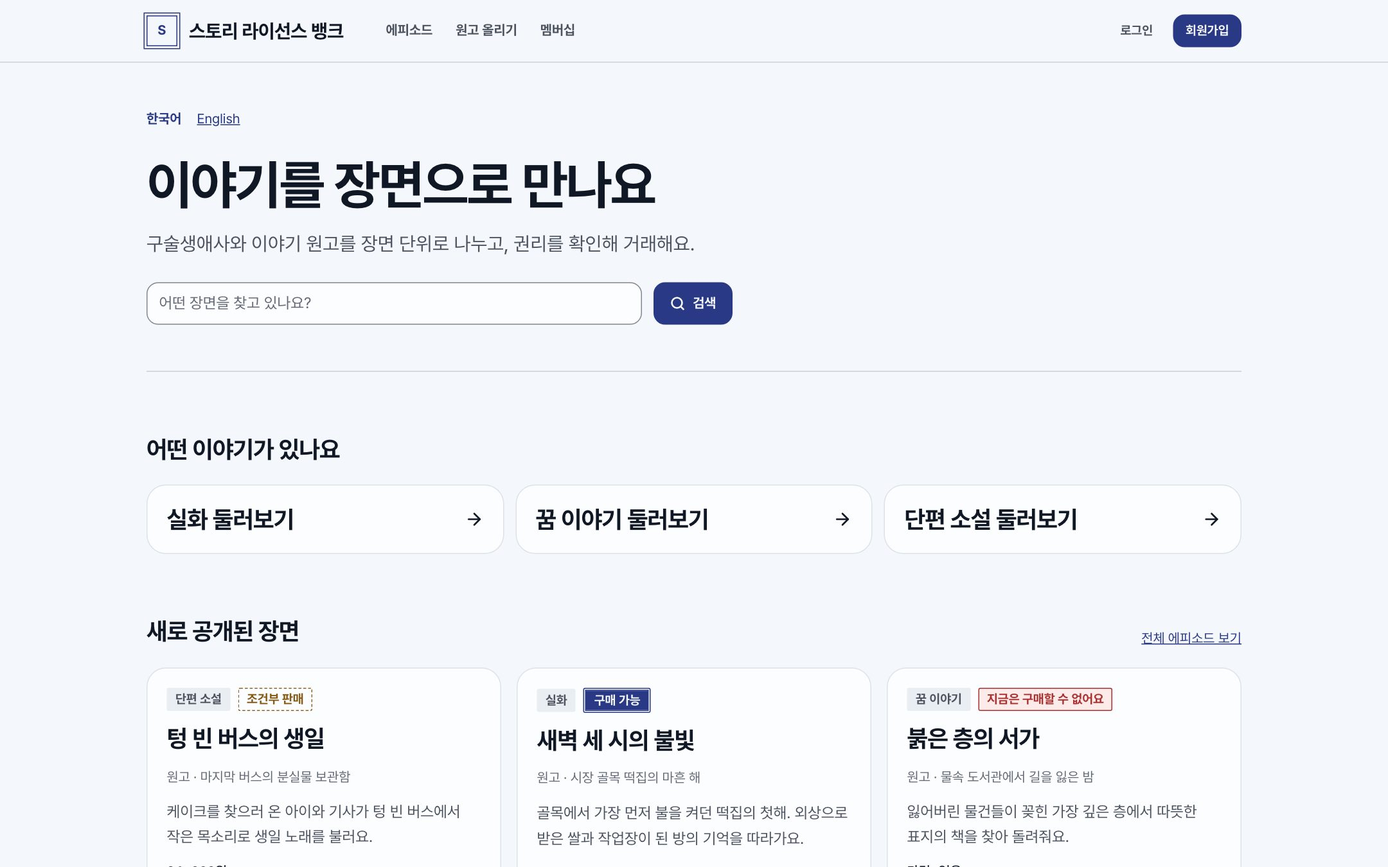
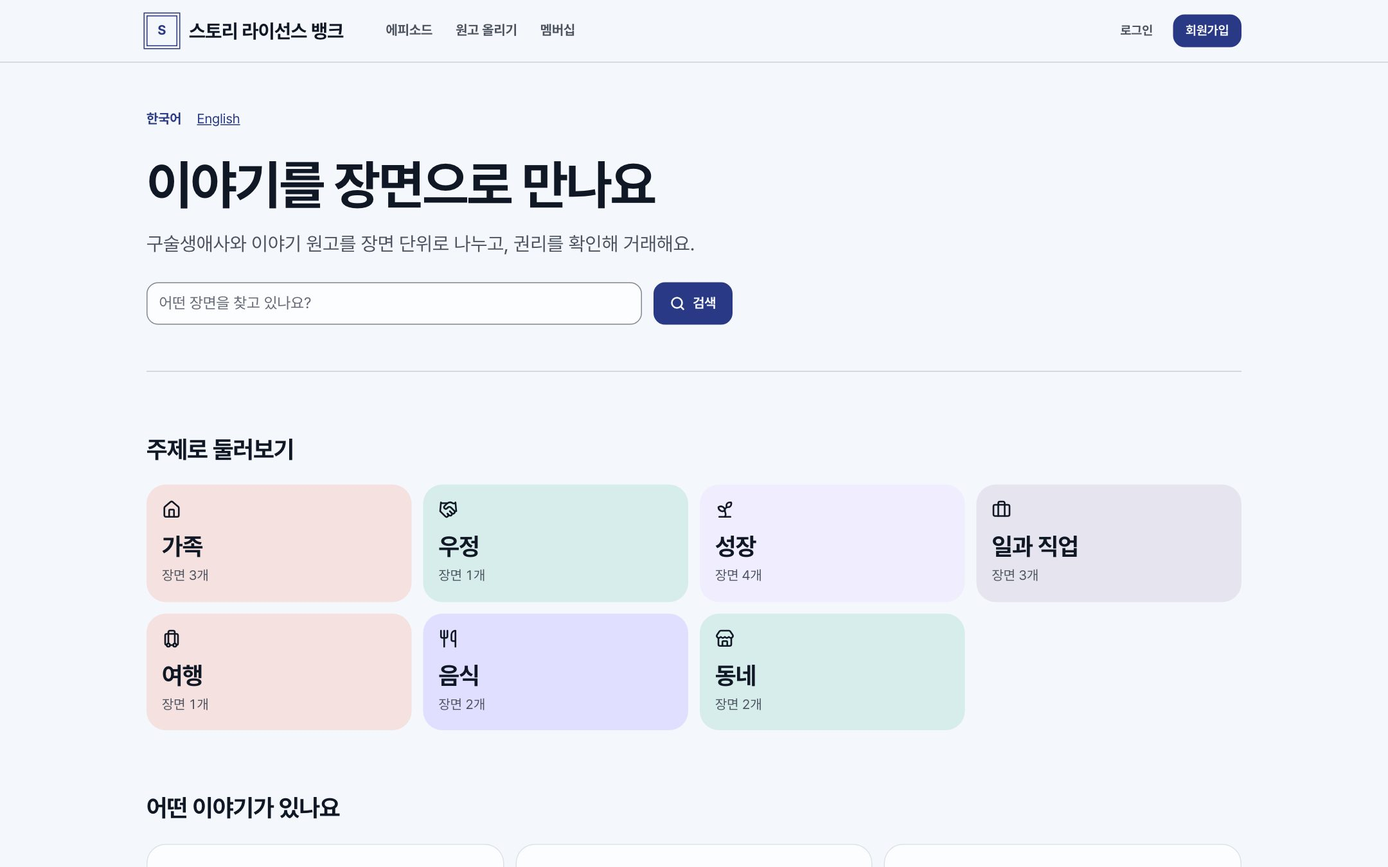
분류·운영 기록(B4a·B6a) 구현 반영: 기능 정의·정책서·화면 시안 갱신
- 기능 정의: 태그·키워드·주제·태그 조건 탐색·감사 로그·내보내기 상태(구현 27·일부 10·예정 8)
- 정책서: 분류어 규칙(EP-8), 분류와 태그 표, 감사 로그 조회(OP-6)·내보내기(OP-7)
- 서비스 구조: 관리자 메뉴 4개 그룹(검색 데이터 추가), 일정 표
- 화면: A-19 태그·키워드, A-25 감사 로그·내보내기 캡처, 첫 화면·탐색·에피소드 상세·대시보드·에피소드 편집 캡처 교체

diff --git a/assets/data.js b/assets/data.js
@@ -12,21 +12,21 @@ SB.statusLabels = {
 SB.screens = [
   // 공개 화면
   { id: 'P-01', name: '첫 화면(랜딩)', route: '/', area: 'public', status: 'built', bundle: 'B3',
-    purpose: '서비스를 소개하고 바로 검색을 시작하게 합니다. 새로 공개된 에피소드를 먼저 보여 줍니다.',
-    points: ['검색창에서 바로 탐색으로 이동', '이야기 종류 3가지: 실화·꿈 이야기·단편 소설', '새로 공개된 에피소드 카드와 전체 보기', '같은 구조의 영어 화면(/en)'],
-    features: ['F4-1'], desktop: 'P01-home-desktop.jpg', mobile: 'P01-home-mobile.jpg', full: 'P01-home-desktop-full.jpg' },
+    purpose: '서비스를 소개하고 바로 검색을 시작하게 합니다. 주제 타일과 새로 공개된 에피소드를 먼저 보여 줍니다.',
+    points: ['검색창에서 바로 탐색으로 이동', '주제 타일: 공개 에피소드가 있는 주제만, 누르면 그 주제의 탐색', '이야기 종류 3가지: 실화·꿈 이야기·단편 소설', '새로 공개된 에피소드 카드와 전체 보기', '같은 구조의 영어 화면(/en)'],
+    features: ['F4-1', 'F3-4'], desktop: 'P01-home-desktop.jpg', mobile: 'P01-home-mobile.jpg', full: 'P01-home-desktop-full.jpg' },
   { id: 'P-02', name: '에피소드 탐색', route: '/search', area: 'public', status: 'built', bundle: 'B3',
     purpose: '검색어와 조건으로 공개된 에피소드를 찾습니다. 승인된 요약과 판매 상태만 보입니다.',
-    points: ['검색어·이야기 종류·판매 상태 조건', '에피소드 카드: 이야기 종류, 판매 상태 배지, 원고, 요약, 가격', '"더 보기"로 20개씩 더 불러오기', '결과가 없을 때 안내와 조건 초기화'],
-    features: ['F4-1'], desktop: 'P02-search-desktop.jpg', mobile: 'P02-search-mobile.jpg' },
+    points: ['검색어: 제목·요약·원고 제목에 태그·동의어·장면 키워드까지', '조건: 주제, 시간·장소·감정 태그, 이야기 종류, 활용 유형, 판매 상태', '에피소드 카드: 대표 키워드(#), 주제·감정 태그, 판매 상태, 가격', '"더 보기"로 20개씩 더 불러오기'],
+    features: ['F4-1', 'F3-4'], desktop: 'P02-search-desktop.jpg', mobile: 'P02-search-mobile.jpg' },
   { id: 'P-03', name: 'AI 검색', route: '/chat', area: 'public', status: 'wire', bundle: '결정 대기(U7)',
     purpose: '승인된 요약만 근거로 답하는 질의 화면입니다. AI 검색 화면 유지 여부(U7)를 정한 뒤 구현합니다.',
     points: ['답변마다 근거가 된 에피소드 표시', '탐색 화면과 같은 검색 API 사용', '승인 전 원문은 답변에 쓰지 않음'],
     features: ['F4-5'], desktop: 'W-P03-chat-desktop.jpg' },
   { id: 'P-04', name: '에피소드 상세', route: '/episodes/{id}', area: 'public', status: 'built', bundle: 'B3',
     purpose: '승인된 요약과 공개 발췌를 보여 주고, 회원 등급에 따라 전문과 구매 패널을 보여 줍니다.',
-    points: ['상단 분류 줄: 이야기 종류와 회차 번호', '공개 발췌는 원문 그대로 인용', '전문 잠금: 방문자는 로그인, 무료는 멤버십 안내, 유료는 전문', '구매 패널: 가격, 판매 상태, 이용 범위, 담기', '같은 원고의 다른 회차'],
-    features: ['F1-4', 'F6-2'], desktop: 'P04-episode-guest-desktop.jpg', mobile: 'P04-episode-guest-mobile.jpg', full: 'P04-episode-paid-desktop-full.jpg' },
+    points: ['상단 분류 줄: 이야기 종류와 회차 번호', '분류: 대표 키워드, 축별 태그(누르면 그 조건의 탐색), 허용 용도', '공개 발췌는 원문 그대로 인용', '전문 잠금: 방문자는 로그인, 무료는 멤버십 안내, 유료는 전문', '구매 패널: 가격, 판매 상태, 이용 범위, 담기'],
+    features: ['F1-4', 'F6-2', 'F3-1'], desktop: 'P04-episode-guest-desktop.jpg', mobile: 'P04-episode-guest-mobile.jpg', full: 'P04-episode-paid-desktop-full.jpg' },
   { id: 'P-05', name: '원고 상세·회차 선택', route: '/manuscripts/{id}', area: 'public', status: 'built', bundle: 'B3',
     purpose: '원고 소개와 회차 목록을 보여 주고, 살 수 있는 회차를 골라 한 번에 담게 합니다.',
     points: ['회차마다 요약, 판매 상태 배지, 가격', '판매 가능한 회차만 선택, 선택 합계 표시', '한 번에 50개까지 담기, 초과 시 안내 문구 표시', '이미 구매한 회차·결제 확인 대기·장바구니 상태 표시'],
@@ -85,8 +85,8 @@ SB.screens = [
     points: ['관리자가 아닌 계정이 관리자 URL에 접근하면 404', '관리자 인증 강화는 정식 공개 전 조건'], features: ['F1-4'], desktop: 'P09-login-desktop.jpg' },
   { id: 'A-02', name: '운영 대시보드', route: '/admin', area: 'admin', status: 'built', bundle: 'B3',
     purpose: '처리할 일과 운영 지표를 한 화면에 모읍니다. 항목마다 "열기"를 누르면 해당 목록으로 이동합니다.',
-    points: ['회원 업로드 검수·승인 대기 버전·결제 확인 대기·유료 전환 신청', '공개 검수 대기·판매 증빙 없는 원고·기한 30일 안 동의서·파기할 동의서', '결제 완료 매출', 'Storage 사용량과 한도'],
-    features: ['F1-6', 'F6-8'], desktop: 'A02-dashboard-desktop.jpg', mobile: 'A02-dashboard-mobile.jpg' },
+    points: ['회원 업로드 검수·승인 대기 버전·결제 확인 대기·유료 전환 신청', '공개 검수 대기·판매 증빙 없는 원고·기한 30일 안 동의서·파기할 동의서', '결제 완료 매출, Storage 사용량과 한도', '최근 감사 로그 5건과 전체 보기'],
+    features: ['F1-6', 'F6-8', 'F9-1'], desktop: 'A02-dashboard-desktop.jpg', mobile: 'A02-dashboard-mobile.jpg' },
   { id: 'A-03', name: '회원 관리', route: '/admin/members', area: 'admin', status: 'built', bundle: 'B2',
     purpose: '회원을 찾고 등급과 상태, 전환 신청을 확인합니다.',
     points: ['이메일·이름 검색, 등급·상태 조건', '전환 신청 대기 표시', '회원 정보를 열면 열람 기록이 남음'],
@@ -120,9 +120,9 @@ SB.screens = [
     points: ['검수 상태·승인 대기 버전·출처 조건', '현재 버전, 문단 범위, 상품 상태, 가격', '대시보드의 "승인 대기 버전"에서 바로 진입'],
     features: ['F2-6'], desktop: 'A12-episodes-desktop.jpg', mobile: 'A12-episodes-mobile.jpg' },
   { id: 'A-13', name: '에피소드 편집', route: '/admin/episodes/{id}', area: 'admin', status: 'built', bundle: 'B3',
-    purpose: '버전을 만들고 승인하거나 반려합니다. 공개 검수 3단계를 정하고, 필요하면 게시를 중단합니다. 가격과 판매 설정도 여기서 바꿉니다.',
-    points: ['버전 이력: 작성자·결정자·메모', '공개 검수: 원문 일치 → 민감정보 → 권리자 공개 승인, 결정 이력', '새 버전(범위 조정·수정), 승인·반려, 게시 중단·재개, 제외', '가격·판매 설정(저장 즉시 공개 목록 반영)'],
-    features: ['F2-6', 'F2-7', 'F5-5', 'F6-3'], strips: 'A13-episode-strips.jpg' },
+    purpose: '버전을 만들고 승인하거나 반려합니다. 공개 검수 3단계를 정하고, 태그와 장면 키워드를 붙이고, 필요하면 게시를 중단합니다. 가격과 판매 설정도 여기서 바꿉니다.',
+    points: ['버전 이력: 작성자·결정자·메모', '공개 검수: 원문 일치 → 민감정보 → 권리자 공개 승인, 결정 이력', '태그·키워드: 축마다 태그(없는 이름은 새로 만듦), 장면 키워드 1~5개와 대표, 대기 버전이 있으면 공개 중인 버전도 고를 수 있음', '새 버전(범위 조정·수정), 승인·반려, 게시 중단·재개, 제외', '가격·판매 설정(저장 즉시 공개 목록 반영)'],
+    features: ['F2-6', 'F2-7', 'F5-5', 'F6-3', 'F3-1', 'F3-2'], strips: 'A13-episode-strips.jpg' },
   { id: 'A-14', name: '원문 대조', route: '/admin/manuscripts/{id}', area: 'admin', status: 'partial', bundle: 'B3 · B4',
     purpose: '번호 붙은 문단을 200개씩 넘겨 보며 범위를 정합니다. 분할·병합 편집은 AI 분할과 함께 구현합니다.',
     points: ['구현: 200문단 단위 보기, 장·절 제목, 쪽 번호, 열람 기록', '예정: 원문 근거 대조, 분할·병합(와이어프레임)'],
@@ -139,8 +139,10 @@ SB.screens = [
     purpose: '권리자별로 원고, 동의서, 간이 계약과 챙길 일을 모아 봅니다. 연락처는 누를 때만 보이고 열람 기록이 남습니다.',
     points: ['이름 검색, 원고·확인 동의서·발급 계약 수', '챙길 일: 판매 증빙 없음, 기한 30일 안, 파기할 동의서', '상세: 연락처 보기·고치기, 원고·동의서·계약 목록'],
     features: ['F5-2', 'F5-4', 'F5-7'], desktop: 'A18-rights-holders-desktop.jpg', mobile: 'A18-rights-holders-mobile.jpg', extra: [{ label: '권리자 상세', desktop: 'A18-rights-holder-desktop.jpg' }] },
-  { id: 'A-19', name: '키워드·메타데이터', route: '/admin/keywords', area: 'admin', status: 'wire', bundle: 'B4',
-    purpose: '표준 태그와 동의어, 사용 현황을 관리합니다.', points: ['서사 태그 축과 값', '동의어와 사용 현황'], features: ['F3-1', 'F3-2'], desktop: 'W-A19-keywords-desktop.jpg' },
+  { id: 'A-19', name: '태그·키워드', route: '/admin/tags', area: 'admin', status: 'built', bundle: 'B4a',
+    purpose: '탐색 조건과 카드에 쓰는 분류어를 관리합니다. 축은 서비스 설정이고, 태그는 축마다 이름·영어 이름·동의어를 둡니다.',
+    points: ['태그 축 6개와 공개 범위(인물 축은 공개 안 함)', '축별 태그: 붙은 버전·공개 에피소드 수, 고치기·합치기·지우기', '태그 더하기(같은 축의 이름·동의어와 겹치면 거절)', '장면 키워드 목록: 유형·대표·에피소드'],
+    features: ['F3-1', 'F3-2', 'F3-3'], desktop: 'A19-tags-desktop.jpg', mobile: 'A19-tags-mobile.jpg', extra: [{ label: '장면 키워드 목록', desktop: 'A19-keywords-desktop.jpg' }] },
   { id: 'A-20', name: '벡터 색인', route: '/admin/vector', area: 'admin', status: 'wire', bundle: 'B4',
     purpose: '승인·권리·임베딩 버전을 확인하고 재색인합니다.', points: ['색인 버전과 재색인'], features: ['F4-2'], desktop: 'W-A20-vector-desktop.jpg' },
   { id: 'A-21', name: '상품 관리', route: '/admin/products', area: 'admin', status: 'built', bundle: 'B3',
@@ -158,9 +160,10 @@ SB.screens = [
     purpose: '저작권자별 미지급·지급 합계를 보고 정산 내역을 모아 지급을 기록합니다.',
     points: ['저작권자별 합계와 건수', '정산 내역: 주문·회차·버전·판매 금액·저작권자 몫·이용 기록', '지급 기록(같은 내역은 한 번만 지급)'],
     features: ['F6-7'], desktop: 'A24-settlements-desktop.jpg', mobile: 'A24-settlements-mobile.jpg' },
-  { id: 'A-25', name: '내보내기·감사 로그', route: '/admin/export', area: 'admin', status: 'wire', bundle: 'B6',
-    purpose: 'CSV·JSON 내보내기와 수정·삭제가 불가능한 감사 로그를 봅니다. 로그는 이미 기록되고 있으며, 조회 화면은 B6에서 구현합니다.',
-    points: ['내보내기 이력', '감사 로그 조회'], features: ['F9-1', 'F9-2'], desktop: 'W-A25-export-desktop.jpg' },
+  { id: 'A-25', name: '감사 로그·내보내기', route: '/admin/audit-logs · /admin/exports', area: 'admin', status: 'built', bundle: 'B6a',
+    purpose: '고칠 수도 지울 수도 없는 감사 로그를 대상·기간으로 찾고, 공개된 에피소드와 메타데이터를 CSV·JSON으로 내보냅니다.',
+    points: ['감사 로그: 시각·행위자·동작·대상·바뀐 내용, 회원은 이름 없이 번호로', '대상 종류·기간 조건, 원고·에피소드·주문 상세의 "이 대상의 기록"', '내보내기: 공개 목록의 글만 싣고 사람 이름·원문 전문·파일은 빼기', '내보내기 기록(누가·언제·몇 건)과 같은 조건으로 다시 받기'],
+    features: ['F9-1', 'F9-2'], desktop: 'A25-audit-logs-desktop.jpg', mobile: 'A25-audit-logs-mobile.jpg', extra: [{ label: '내보내기', desktop: 'A25-exports-desktop.jpg' }] },
 ];
 
 /* 검토할 항목: 발주자 결정(U) + 디자인 검토(D) */
@@ -173,7 +176,7 @@ SB.reviews = [
   { id: 'U6', kind: '기본안 적용', title: '요약 승인자', detail: '관리자 승인, 결정자·시각·메모 기록. 권리자 승인은 추후 추가 가능.', screens: ['A-13'] },
   { id: 'U7', kind: '결정 필요', title: 'AI 검색 화면 유지 여부', detail: '회의에서 논의되지 않은 와이어프레임 전용 화면. 유지 시 승인된 요약만 근거로 답변.', screens: ['P-03'] },
   { id: 'U8', kind: '결정 필요', title: '제품명과 BI', detail: '후보: 스토리뱅크, 스토리 라이선스 뱅크, K-Story 라이센스 뱅크. 시안의 워드마크(스토리 라이선스 뱅크)는 임시. BI 컬러 확정 시 포인트 컬러 9단계 교체, 타일 컬러 재선정.', screens: ['P-01'] },
-  { id: 'U9', kind: '기본안 적용', title: '서사 태그 축', detail: '시간·장소·인물·감정 4개 축 기본 적용, 축은 데이터로 추가 가능.', screens: ['A-19'] },
+  { id: 'U9', kind: '기본안 적용', title: '서사 태그 축', detail: '시간·장소·인물·감정 4개 축에 주제·상세 태그를 더해 적용(인물 축은 공개하지 않음). 축은 데이터로 추가 가능.', screens: ['A-19'] },
   { id: 'U10', kind: '기본안 적용', title: '원고 파일 형식', detail: 'TXT·DOCX·PDF 지원. HWP, 스캔 이미지(OCR), 녹음(STT)은 이번 범위에서 제외.', screens: ['P-14', 'A-08'] },
   { id: 'U16', kind: '기본안 적용', title: '정산 배분율', detail: '저작권자 70%(설정값)로 정산 내역 생성.', screens: ['A-24'] },
   { id: 'DR1', kind: '디자인 검토', title: '주요 화면 목록 확정(C5)', detail: '상세 디자인 후보: 첫 화면, 에피소드 탐색, 에피소드 상세, 원고 상세·회차 선택, 장바구니, 내 서재, 운영 대시보드, 원고 목록·상세(관리자).', screens: ['P-01', 'P-04', 'A-02'] },

diff --git a/planning/features.html b/planning/features.html
@@ -51,19 +51,19 @@
 
   <dl class="facts">
     <div class="fact"><dt>기능</dt><dd class="num">45개</dd></div>
-    <div class="fact"><dt>구현</dt><dd class="num">21개 <small>B1–B3·B5</small></dd></div>
-    <div class="fact"><dt>일부 구현</dt><dd class="num">11개</dd></div>
-    <div class="fact"><dt>예정</dt><dd class="num">13개 <small>B4·B6</small></dd></div>
+    <div class="fact"><dt>구현</dt><dd class="num">27개 <small>B1–B3·B5·B4a·B6a</small></dd></div>
+    <div class="fact"><dt>일부 구현</dt><dd class="num">10개</dd></div>
+    <div class="fact"><dt>예정</dt><dd class="num">8개 <small>B4·B6</small></dd></div>
   </dl>
 
   <section class="sec" aria-labelledby="s0">
     <div class="sec-label"><p class="eyebrow">Overview</p><h2 id="s0">진행 현황</h2></div>
     <div class="sec-body">
-      <div class="meter" role="img" aria-label="45개 중 구현 21, 일부 11, 예정 13">
-        <i style="width:46.7%;background:var(--positive)"></i><i style="width:24.4%;background:var(--info)"></i><i style="width:28.9%;background:var(--rule-strong)"></i>
+      <div class="meter" role="img" aria-label="45개 중 구현 27, 일부 10, 예정 8">
+        <i style="width:60%;background:var(--positive)"></i><i style="width:22.2%;background:var(--info)"></i><i style="width:17.8%;background:var(--rule-strong)"></i>
       </div>
-      <div class="meter-legend"><span><span class="stamp is-built">구현</span> 21</span><span><span class="stamp is-partial">일부</span> 11</span><span><span class="stamp is-next">예정</span> 13</span></div>
-      <p class="prose">원고 등록부터 공개 검수, 서재·정산까지 전체 흐름 동작. 권리 심화(B5) 완료. 남은 기능은 AI 처리(B4), 운영·증빙(B6) 단계에서 추가.</p>
+      <div class="meter-legend"><span><span class="stamp is-built">구현</span> 27</span><span><span class="stamp is-partial">일부</span> 10</span><span><span class="stamp is-next">예정</span> 8</span></div>
+      <p class="prose">원고 등록부터 공개 검수, 서재·정산까지 전체 흐름 동작. 권리 심화(B5), 태그·키워드와 태그 조건 탐색(B4a), 감사 로그 화면·내보내기(B6a) 완료. 남은 기능은 AI 처리(B4), 운영·증빙(B6) 단계에서 추가.</p>
     </div>
   </section>
 
@@ -102,11 +102,11 @@
     <div class="sec-body"><div class="table-wrap"><table class="feature-table">
       <thead><tr><th>번호</th><th>기능</th><th>완료 기준</th><th>화면</th><th>상태</th></tr></thead>
       <tbody>
-        <tr><td class="mono">F3-1</td><td>서사 태그</td><td>시간·장소·인물·감정, AI 제안 → 관리자 확정</td><td>A-13 · A-19</td><td><span class="stamp is-next">예정 B4</span></td></tr>
-        <tr><td class="mono">F3-2</td><td>장면 키워드</td><td>에피소드당 후보 3~5개, 대표 1개 선택, 키워드 유형</td><td>A-19</td><td><span class="stamp is-next">예정 B4</span></td></tr>
-        <tr><td class="mono">F3-3</td><td>상세 태그</td><td>검색용 일상어 태그 5~8개</td><td>A-13</td><td><span class="stamp is-next">예정 B4</span></td></tr>
-        <tr><td class="mono">F3-4</td><td>공개 주제 분류</td><td>이야기 종류(실화·꿈 이야기·단편 소설)는 구현. 주제 매핑은 태그 기능과 함께 B4에서 구현</td><td>P-01 · P-02</td><td><span class="stamp is-partial">일부</span></td></tr>
-        <tr><td class="mono">F3-5</td><td>식별자 매핑</td><td>키워드 ↔ 에피소드 ↔ 저작권자 ↔ 정산 식별자</td><td>—</td><td><span class="stamp is-next">예정 B4</span></td></tr>
+        <tr><td class="mono">F3-1</td><td>서사 태그</td><td>시간·장소·인물·감정 축(인물은 공개 안 함), 관리자가 버전마다 붙이고 새 버전이 이어받음은 구현. AI 제안 → 관리자 확정은 B4</td><td>A-13 · A-19</td><td><span class="stamp is-partial">일부</span></td></tr>
+        <tr><td class="mono">F3-2</td><td>장면 키워드</td><td>에피소드 버전마다 1~5개, 대표 1개, 키워드 유형은 구현(대표는 카드에 #키워드). AI 후보와 핵심 장면 점수는 B4</td><td>A-13 · A-19</td><td><span class="stamp is-partial">일부</span></td></tr>
+        <tr><td class="mono">F3-3</td><td>상세 태그</td><td>검색용 일상어 태그(축마다 10개까지), 카드·상세에 보이고 검색어로 찾음</td><td>A-13</td><td><span class="stamp is-built">구현 B4a</span></td></tr>
+        <tr><td class="mono">F3-4</td><td>공개 주제 분류</td><td>이야기 종류(실화·꿈 이야기·단편 소설)와 주제 8개(가족·사랑·우정·성장·일과 직업·여행·음식·동네), 첫 화면 주제 타일과 탐색 조건</td><td>P-01 · P-02</td><td><span class="stamp is-built">구현 B3·B4a</span></td></tr>
+        <tr><td class="mono">F3-5</td><td>식별자 매핑</td><td>주문 항목·이용 기록에 구매 시점의 대표 키워드를 남겨 키워드 ↔ 에피소드 ↔ 저작권자 ↔ 정산 식별자가 이어짐</td><td>A-23 · A-24</td><td><span class="stamp is-built">구현 B4a</span></td></tr>
       </tbody></table></div></div>
   </section>
 
@@ -115,7 +115,7 @@
     <div class="sec-body"><div class="table-wrap"><table class="feature-table">
       <thead><tr><th>번호</th><th>기능</th><th>완료 기준</th><th>화면</th><th>상태</th></tr></thead>
       <tbody>
-        <tr><td class="mono">F4-1</td><td>키워드·조건 검색</td><td>검색어·이야기 종류·판매 상태 조건은 구현. 승인과 권리 확인을 마친 에피소드만 공개. 태그 조건은 B4</td><td>P-02</td><td><span class="stamp is-partial">일부</span></td></tr>
+        <tr><td class="mono">F4-1</td><td>키워드·조건 검색</td><td>검색어(제목·요약·태그·동의어·키워드), 주제·시간·장소·감정 태그, 이야기 종류, 활용 유형, 판매 상태 조건. 승인과 권리 확인을 마친 에피소드만 공개</td><td>P-02</td><td><span class="stamp is-built">구현 B3·B4a</span></td></tr>
         <tr><td class="mono">F4-2</td><td>임베딩 색인</td><td>승인 에피소드만 색인, 변경 시 재색인</td><td>A-20</td><td><span class="stamp is-next">예정 B4</span></td></tr>
         <tr><td class="mono">F4-3</td><td>의미 검색</td><td>자연어 질의 → 유사도 + 조건, 일치 이유 표시</td><td>P-02</td><td><span class="stamp is-next">예정 B4</span></td></tr>
         <tr><td class="mono">F4-4</td><td>근거 표시</td><td>결과마다 에피소드·원고·원문 위치, 근거 없으면 "찾지 못했습니다"</td><td>P-02 · P-04</td><td><span class="stamp is-next">예정 B4</span></td></tr>
@@ -160,10 +160,10 @@
     <div class="sec-body"><div class="table-wrap"><table class="feature-table">
       <thead><tr><th>번호</th><th>기능</th><th>완료 기준</th><th>화면</th><th>상태</th></tr></thead>
       <tbody>
-        <tr><td class="mono">F9-1</td><td>감사 로그</td><td>등급·상태·결정 변경을 수정·삭제할 수 없게 기록(구현). 조회 화면은 B6</td><td>A-25</td><td><span class="stamp is-partial">일부</span></td></tr>
-        <tr><td class="mono">F9-2</td><td>내보내기</td><td>승인 에피소드·메타데이터 CSV·JSON 내보내기</td><td>A-25</td><td><span class="stamp is-next">예정 B6</span></td></tr>
+        <tr><td class="mono">F9-1</td><td>감사 로그</td><td>등급·상태·결정·분류 변경을 수정·삭제할 수 없게 기록하고 관리자 화면에서 대상·기간으로 조회(회원은 번호로만 표시)</td><td>A-25 · A-02</td><td><span class="stamp is-built">구현 B1·B6a</span></td></tr>
+        <tr><td class="mono">F9-2</td><td>내보내기</td><td>공개된 에피소드·메타데이터 CSV·JSON 내보내기(사람 이름·원문 전문·파일 제외), 내보내기 기록</td><td>A-25</td><td><span class="stamp is-built">구현 B6a</span></td></tr>
         <tr><td class="mono">F9-3</td><td>KPI 측정 로그</td><td>분절·태그 F1 점수, 근거 일치율, 응답 시간(항목·목표는 U3 결정 후)</td><td>—</td><td><span class="stamp is-next">예정 B6</span></td></tr>
-        <tr><td class="mono">F9-4</td><td>이용 추적 데이터 필드</td><td>버전·승인자·권리 버전·이용 기록은 구현, 거래 단위 식별자는 B6</td><td>A-16</td><td><span class="stamp is-partial">일부</span></td></tr>
+        <tr><td class="mono">F9-4</td><td>이용 추적 데이터 필드</td><td>버전·승인자·권리 버전·이용 기록·진입 키워드는 구현, 내보내기에 거래 단위 식별자와 버전·권리 버전·대표 키워드를 함께 실음. 거래 단위 화면(A-16)은 범위 밖 후보</td><td>A-16 · A-25</td><td><span class="stamp is-partial">일부</span></td></tr>
         <tr><td class="mono">F9-5</td><td>운영 안정성</td><td>상태 점검(헬스 체크)·환경 안내는 구현, 휴면 해제 절차는 B6</td><td>—</td><td><span class="stamp is-partial">일부</span></td></tr>
       </tbody></table></div></div>
   </section>

diff --git a/planning/policy.html b/planning/policy.html
@@ -158,6 +158,7 @@
         <li><span class="n">EP-5</span><strong>실명 금지</strong><span>요약·발췌·원고 소개에 사람 이름 사용 금지(작성 기준, 관리자 화면 안내). 본문의 실명·제3자 정보는 가림(RT-5)으로 처리하고, 민감정보 검수를 통과해야 공개 목록에 오름.</span></li>
         <li><span class="n">EP-6</span><strong>제외</strong><span>관리자가 사유를 남기고 에피소드를 제외하면 공개 목록과 판매에서 빠짐. 이미 구매한 회원은 구매한 버전을 계속 읽음.</span></li>
         <li><span class="n">EP-7</span><strong>게시 중단</strong><span>권리 문제로 관리자가 사유를 남기고 게시를 중단하면 공개 목록·판매·유료 열람에서 빠지고, 이미 구매한 회원도 전문을 읽을 수 없음(서재에 "게시가 중단된 에피소드" 표시). 관리자가 중단한 것만 개별로 재개하고, 원고 철회로 중단된 것은 재개하지 않으며, 동의서 파기로 중단된 것은 새 동의서를 확인한 뒤 원고 단위로 한 번에 재개.</span></li>
+        <li><span class="n">EP-8</span><strong>분류어</strong><span>태그와 장면 키워드는 관리자가 에피소드 버전마다 붙이고, 새 버전은 확정된 분류를 이어받음. 공개 검수(RT-4)와 별도로 관리하며, 공개되는 축의 태그·동의어·키워드에는 그 원고의 저자·구술자·저작권자 이름을 쓸 수 없음(저장 시 확인). 사람 이름은 공개하지 않는 인물 축에만 씀. 누가 어떤 태그를 붙였는지는 감사 로그에 남음.</span></li>
       </ul>
       <h3>분류와 태그</h3>
       <div class="table-wrap">
@@ -165,10 +166,11 @@
           <thead><tr><th>분류</th><th>값</th></tr></thead>
           <tbody>
             <tr><td>이야기 종류</td><td>실화 · 꿈 이야기 · 단편 소설</td></tr>
-            <tr><td>서사 태그</td><td>시간 · 장소 · 인물 · 감정 4개 축(U9). 축은 데이터로 추가 가능</td></tr>
-            <tr><td>장면 키워드</td><td>에피소드당 후보 3~5개 중 대표 1개</td></tr>
-            <tr><td>상세 태그</td><td>검색용 일상어 태그 5~8개</td></tr>
-            <tr><td>공개 주제</td><td>가족 · 사랑 · 우정 · 성장 · 일과 직업 · 여행 · 음식 · 동네</td></tr>
+            <tr><td>서사 태그</td><td>시간 · 장소 · 인물 · 감정 4개 축(U9). 인물 축은 공개하지 않음. 축은 데이터로 추가 가능</td></tr>
+            <tr><td>장면 키워드</td><td>에피소드당 1~5개 중 대표 1개(카드에 "#키워드"로 표시, 구매 시점의 대표 키워드를 거래 기록에 남김)</td></tr>
+            <tr><td>상세 태그</td><td>검색용 일상어 태그(카드·상세에 보이고 검색어로 찾음)</td></tr>
+            <tr><td>공개 주제</td><td>가족 · 사랑 · 우정 · 성장 · 일과 직업 · 여행 · 음식 · 동네(첫 화면 주제 타일과 탐색 조건)</td></tr>
+            <tr><td>태그 한도</td><td>에피소드 버전마다 축별 10개, 모두 40개. 같은 축 안에서 태그 이름·동의어는 겹치지 않음</td></tr>
           </tbody>
         </table>
       </div>
@@ -310,7 +312,8 @@
         <li><span class="n">OP-3</span><strong>최근 로그인 확인</strong><span>탈퇴, 관리자 등급 부여, 관리자 계정 재활성화, 비밀번호 저장은 10분 이내 로그인한 세션에서만 가능.</span></li>
         <li><span class="n">OP-4</span><strong>열람 기록</strong><span>전문, 원고 본문, 원본 파일, 동의서, 회원 정보, 권리자 연락처, 간이 계약 PDF 열람 시 열람자·시각·대상 기록.</span></li>
         <li><span class="n">OP-5</span><strong>파일 제공</strong><span>원본·동의서는 열람 기록을 남긴 뒤 60초 유효 링크로만 제공. 등록 후 바뀐 파일은 열지 않고 알림.</span></li>
-        <li><span class="n">OP-6</span><strong>감사 로그</strong><span>등급·상태·승인·권리·가격·주문·지급 변경을 수정·삭제할 수 없는 기록으로 저장. 관리자 화면에서 조회.</span></li>
+        <li><span class="n">OP-6</span><strong>감사 로그</strong><span>등급·상태·승인·권리·가격·주문·지급·분류 변경을 수정·삭제할 수 없는 기록으로 저장. 관리자 화면에서 대상·기간으로 조회하고, 회원은 이름 없이 번호로 표시(회원 정보는 열람 기록을 남기는 회원 상세에서).</span></li>
+        <li><span class="n">OP-7</span><strong>내보내기</strong><span>관리자가 공개된 에피소드와 메타데이터를 CSV·JSON으로 받음. 공개 목록에 보이는 글만 싣고 사람 이름·원문 전문·동의서·원고 파일은 빼며, 받을 때마다 받은 사람·시각·조건·건수를 기록.</span></li>
       </ul>
       <p class="note"><strong>정식 공개 전 추가 조건.</strong> 보안 강화 조치, 외부 메일 발송(SMTP), 약관·개인정보 처리방침 법무 검토.</p>
     </div>

diff --git a/planning/ia.html b/planning/ia.html
@@ -50,14 +50,14 @@
       <p class="eyebrow">Information Architecture</p>
       <h1>서비스 구조와<br>메뉴 구성</h1>
     </div>
-    <p class="lead">공개 화면은 탐색부터 구매와 서재까지 한 흐름으로 이어지고, 관리자 화면은 운영·원고·거래 3개 메뉴 그룹으로 나뉩니다. 화면 번호(P-·A-)는 기능 정의, 화면 시안, 테스트에서 공통으로 사용합니다. 화면 이름은 구현에 맞춰 일부 바꿨고 번호는 그대로입니다.</p>
+    <p class="lead">공개 화면은 탐색부터 구매와 서재까지 한 흐름으로 이어지고, 관리자 화면은 운영·원고·검색 데이터·거래 4개 메뉴 그룹으로 나뉩니다. 화면 번호(P-·A-)는 기능 정의, 화면 시안, 테스트에서 공통으로 사용합니다. 화면 이름은 구현에 맞춰 일부 바꿨고 번호는 그대로입니다.</p>
   </section>
 
   <dl class="facts">
     <div class="fact"><dt>공개 화면</dt><dd class="num">17개 <small>P-01–P-17</small></dd></div>
     <div class="fact"><dt>관리자 화면</dt><dd class="num">25개 <small>A-01–A-25</small></dd></div>
     <div class="fact"><dt>언어</dt><dd>한국어 · 영어 <small>공개 화면</small></dd></div>
-    <div class="fact"><dt>구현한 화면</dt><dd class="num"><span data-count="*:built,partial,merged"></span>개 <small>구현 26 + 포함·일부 4</small></dd></div>
+    <div class="fact"><dt>구현한 화면</dt><dd class="num"><span data-count="*:built,partial,merged"></span>개 <small>구현 28 + 포함·일부 4</small></dd></div>
   </dl>
 
   <section class="sec" aria-labelledby="s1">
@@ -76,11 +76,12 @@
   </section>
 
   <section class="sec" aria-labelledby="s2">
-    <div class="sec-label"><p class="eyebrow">02 / Admin</p><h2 id="s2">관리자 메뉴</h2><p>3개 메뉴 그룹: 운영 · 원고 · 거래</p></div>
+    <div class="sec-label"><p class="eyebrow">02 / Admin</p><h2 id="s2">관리자 메뉴</h2><p>4개 메뉴 그룹: 운영 · 원고 · 검색 데이터 · 거래</p></div>
     <div class="sec-body">
       <div class="tree">
-        <div><h3><span class="mono">운영</span>운영</h3><ul><li>운영 대시보드 <span class="mono">A-02</span></li><li>회원 관리 <span class="mono">A-03</span></li><li>└ 회원 상세 <span class="mono">A-04</span></li><li class="is-wire">내보내기·감사 로그 <span class="mono">A-25</span></li></ul></div>
-        <div><h3><span class="mono">원고</span>원고</h3><ul><li>원고 목록·상세 <span class="mono">A-07</span></li><li>└ 권리·공개 검수 <span class="mono">A-15</span></li><li>└ 원문 대조 <span class="mono">A-14</span></li><li>회원 업로드 검수 <span class="mono">A-09</span></li><li>원고 등록 <span class="mono">A-08</span></li><li>에피소드 검수 목록 <span class="mono">A-12</span></li><li>└ 에피소드 편집 <span class="mono">A-13</span></li><li class="is-wire">AI 처리 작업 <span class="mono">A-10</span></li><li class="is-wire">키워드·메타데이터 <span class="mono">A-19</span></li><li class="is-wire">벡터 색인 <span class="mono">A-20</span></li><li>권리자·증빙 <span class="mono">A-18</span></li></ul></div>
+        <div><h3><span class="mono">운영</span>운영</h3><ul><li>운영 대시보드 <span class="mono">A-02</span></li><li>회원 관리 <span class="mono">A-03</span></li><li>└ 회원 상세 <span class="mono">A-04</span></li><li>감사 로그 <span class="mono">A-25</span></li><li>내보내기 <span class="mono">A-25</span></li></ul></div>
+        <div><h3><span class="mono">원고</span>원고</h3><ul><li>원고 목록·상세 <span class="mono">A-07</span></li><li>└ 권리·공개 검수 <span class="mono">A-15</span></li><li>└ 원문 대조 <span class="mono">A-14</span></li><li>회원 업로드 검수 <span class="mono">A-09</span></li><li>원고 등록 <span class="mono">A-08</span></li><li>에피소드 검수 목록 <span class="mono">A-12</span></li><li>└ 에피소드 편집 <span class="mono">A-13</span></li><li class="is-wire">AI 처리 작업 <span class="mono">A-10</span></li><li>권리자·증빙 <span class="mono">A-18</span></li></ul></div>
+        <div><h3><span class="mono">검색 데이터</span>검색 데이터</h3><ul><li>태그·키워드 <span class="mono">A-19</span></li><li>└ 장면 키워드 목록 <span class="mono">A-19</span></li><li class="is-wire">벡터 색인 <span class="mono">A-20</span></li></ul></div>
         <div><h3><span class="mono">거래</span>거래</h3><ul><li>상품 관리 <span class="mono">A-21</span></li><li>주문 <span class="mono">A-22</span></li><li>└ 주문 상세 <span class="mono">A-23</span></li><li>정산 <span class="mono">A-24</span></li></ul></div>
       </div>
       <p class="note">관리자도 회원과 같은 로그인 화면(<span class="mono">A-01 → P-09</span>) 사용. 관리자 권한이 없는 계정의 관리자 주소 접근 시 404 표시. 범위 밖 후보인 프로젝트·도서(A-05·A-06), 라이선스 단위(A-16), 버전 비교(A-17)는 메뉴에서 제외.</p>

diff --git a/planning/schedule.html b/planning/schedule.html
@@ -69,9 +69,11 @@
             <tr><td class="group">개발</td><td>기본 흐름(B3): 업로드 → 분할 → 승인 → 상품 → 탐색 → 주문 → 정산 → 서재</td><td class="mono">10.13 – 10.22</td><td><span class="stamp is-built">완료 9.30</span></td><td>로컬에서 시연 가능한 알파</td></tr>
             <tr><td class="group">디자인</td><td>디자인 시스템 사이트, 무드보드, 기획·디자인 자료</td><td class="mono">10.22 – 10.27</td><td><span class="stamp is-partial">진행 중</span></td><td>C1 · C4 · C5</td></tr>
             <tr><td class="group">납품</td><td>C1–C5 마무리와 제출</td><td class="mono">10.27 – 10.30</td><td><span class="stamp is-next">예정</span></td><td>계약 납품물</td></tr>
-            <tr><td class="group">개발</td><td>AI 처리(B4): 작업 대기열·AI 분할·태그·키워드·의미 검색</td><td class="mono">10.30 – 11.5</td><td><span class="stamp is-next">예정 · 별도 협의</span></td><td>AI 분할·의미 검색</td></tr>
+            <tr><td class="group">개발</td><td>분류(B4a): 태그 축·태그·장면 키워드 수동 입력, 주제·태그·활용 유형 탐색, 첫 화면 주제 타일</td><td class="mono">10.30 – 11.5</td><td><span class="stamp is-built">완료 10.1</span></td><td>태그 조건 탐색</td></tr>
+            <tr><td class="group">개발</td><td>AI 처리(B4): 작업 대기열·AI 분할·태그·키워드 제안·의미 검색</td><td class="mono">10.30 – 11.5</td><td><span class="stamp is-next">예정 · 별도 협의</span></td><td>AI 분할·의미 검색</td></tr>
             <tr><td class="group">개발</td><td>권리 심화(B5): 공개 검수 3단계, 가림, 게시 중단·철회, 동의서 파기, 간이 계약, 권리자·증빙</td><td class="mono">11.5 – 11.8</td><td><span class="stamp is-built">완료 9.30</span></td><td>공개 검수·간이 계약 PDF</td></tr>
-            <tr><td class="group">개발</td><td>운영·증빙(B6): 감사 로그 화면, 내보내기, KPI, 통합 점검</td><td class="mono">11.8 – 11.13</td><td><span class="stamp is-next">예정 · 별도 협의</span></td><td>증빙 자료</td></tr>
+            <tr><td class="group">개발</td><td>운영 기록(B6a): 감사 로그 화면, 내보내기</td><td class="mono">11.8 – 11.13</td><td><span class="stamp is-built">완료 10.1</span></td><td>감사 로그·CSV·JSON</td></tr>
+            <tr><td class="group">개발</td><td>운영·증빙(B6): KPI, 정리 작업, 통합 점검</td><td class="mono">11.8 – 11.13</td><td><span class="stamp is-next">예정 · 별도 협의</span></td><td>증빙 자료</td></tr>
           </tbody>
         </table>
       </div>

diff --git a/planning/index.html b/planning/index.html
@@ -56,7 +56,7 @@
     <ul class="ix-list">
       <li class="is-featured"><a href="overview.html"><div><span class="call">SB-PLAN-01</span><strong>서비스 기획서</strong><span>추진 배경과 서비스 정의, 목표와 성과 지표, 사용자와 이용 여정, 수익 구조, 로드맵, 리스크</span></div><span class="arrow" aria-hidden="true">→</span></a></li>
       <li><a href="ia.html"><div><span class="call">SB-PLAN-02</span><strong>서비스 구조와 메뉴</strong><span>공개·관리자 메뉴 트리와 화면 42개의 번호·주소·상태</span></div><span class="arrow" aria-hidden="true">→</span></a></li>
-      <li><a href="features.html"><div><span class="call">SB-PLAN-03</span><strong>기능 정의</strong><span>45개 기능의 완료 기준과 구현 상태(구현 21 · 일부 11 · 예정 13)</span></div><span class="arrow" aria-hidden="true">→</span></a></li>
+      <li><a href="features.html"><div><span class="call">SB-PLAN-03</span><strong>기능 정의</strong><span>45개 기능의 완료 기준과 구현 상태(구현 27 · 일부 10 · 예정 8)</span></div><span class="arrow" aria-hidden="true">→</span></a></li>
       <li><a href="schedule.html"><div><span class="call">SB-PLAN-04</span><strong>일정표</strong><span>9월 설계부터 11월 최종 마감까지 계획과 실제 진행, 발주자 확인 요청</span></div><span class="arrow" aria-hidden="true">→</span></a></li>
       <li><a href="policy.html"><div><span class="call">SB-PLAN-05</span><strong>서비스 정책서</strong><span>회원·원고·에피소드·권리·거래·정산·운영 규칙과 상태 정의</span></div><span class="arrow" aria-hidden="true">→</span></a></li>
     </ul>
